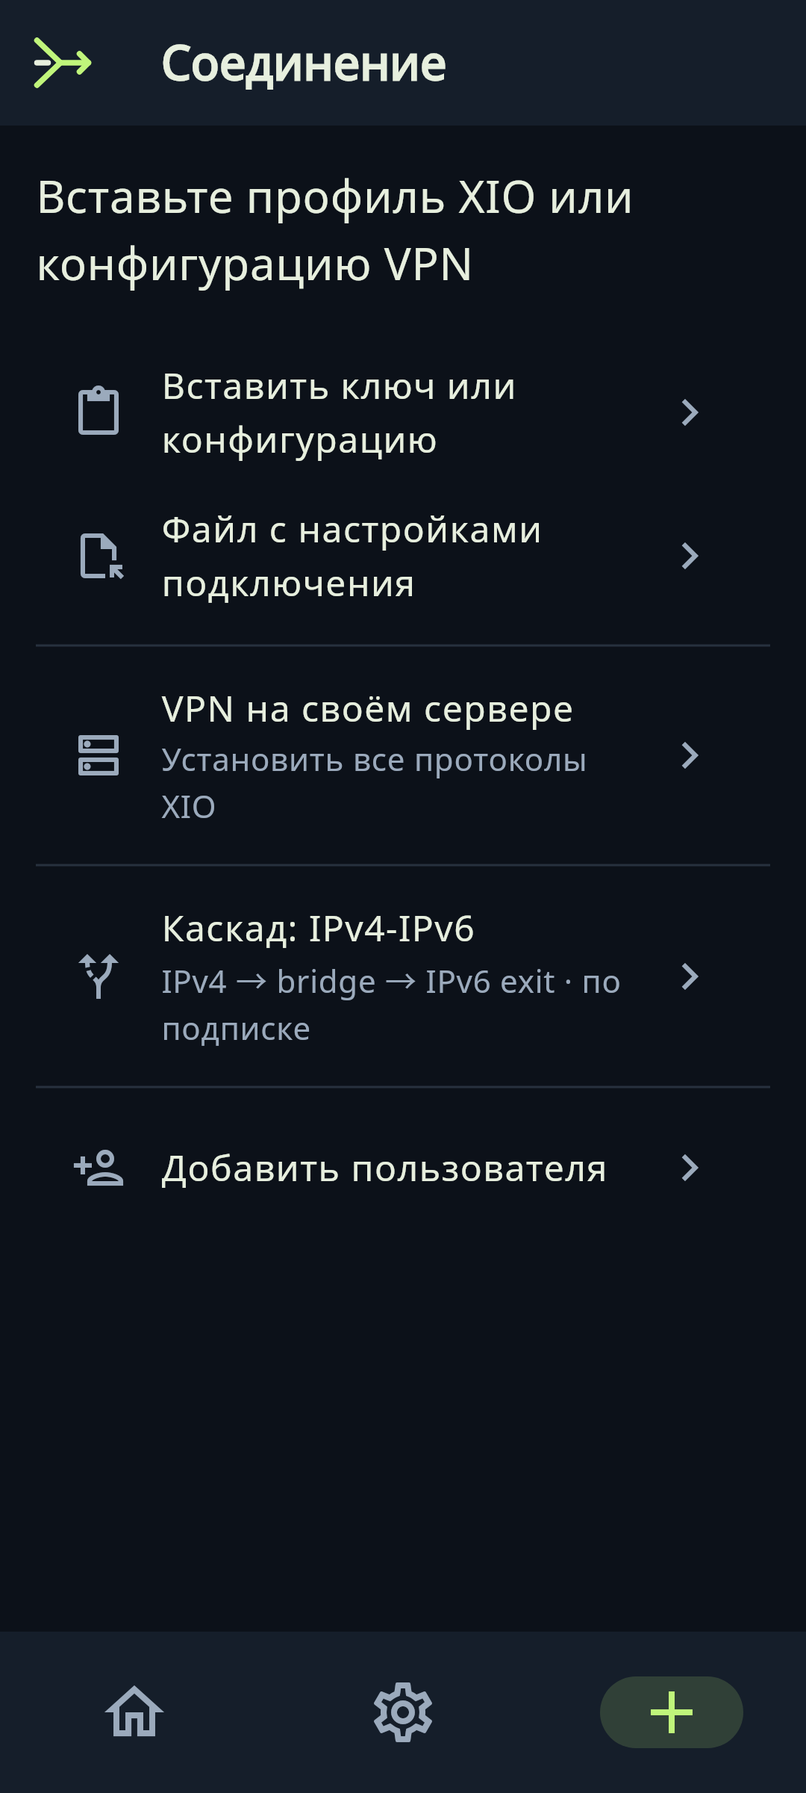
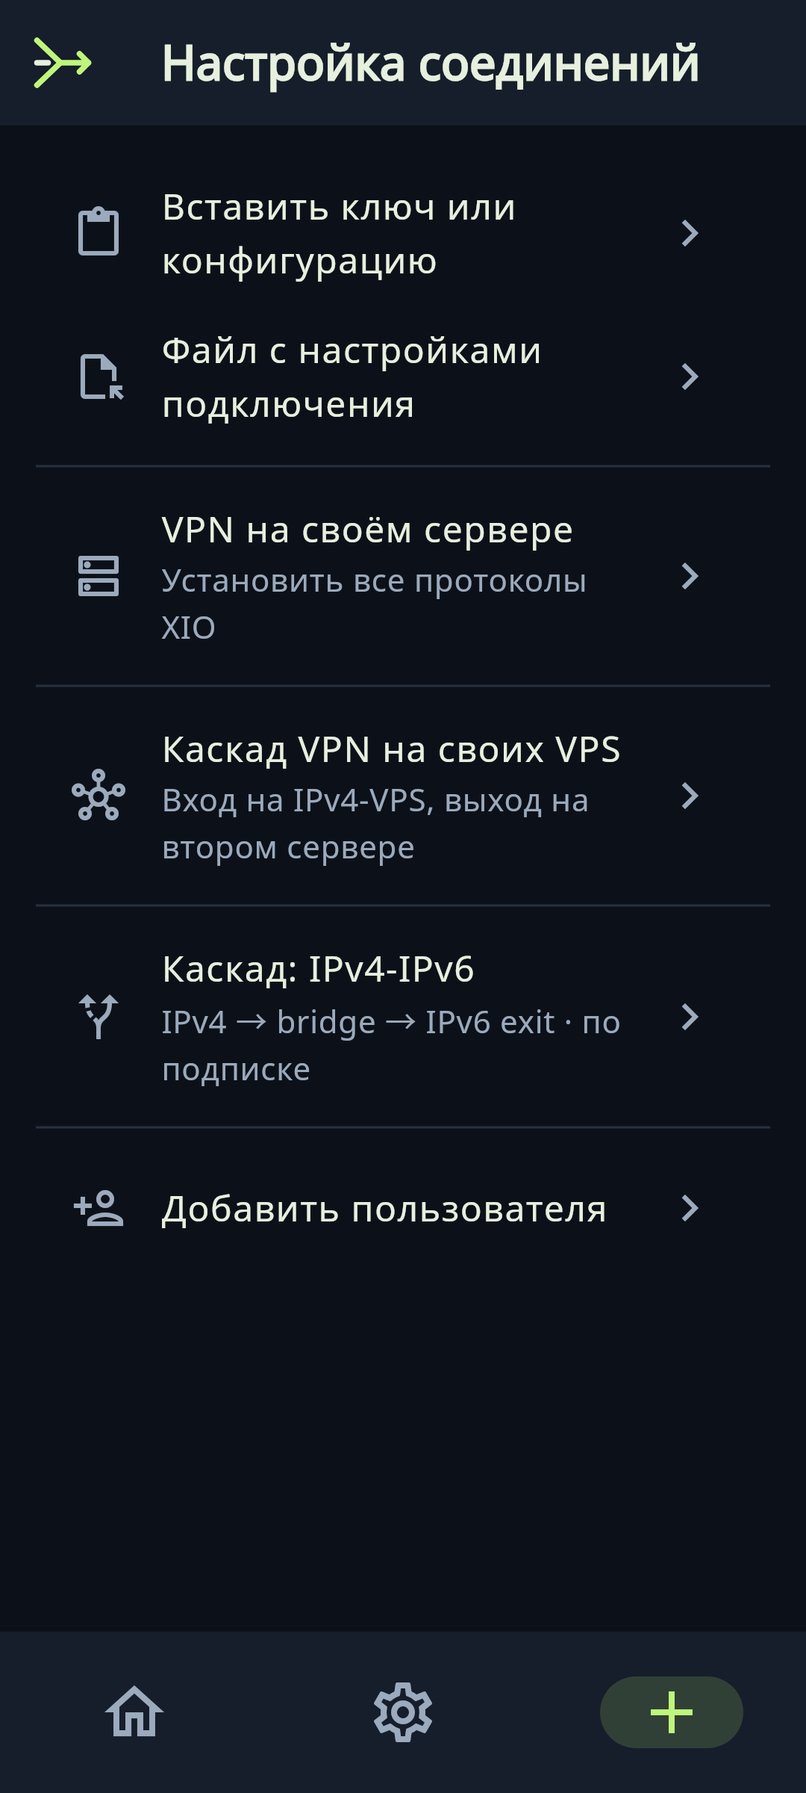
docs(0.24.2): update от 05.11 — кадр «Маршрутизация», обновлённые экраны, тесты 315
Кадры: routing-domains.png (новый, режимы IP/сайтов и поле доменов), обновлены connection-tab.png (вкладка «Настройка соединений» без подзаголовка, пункт «Каскад VPN на своих VPS») и settings.png (плитка без подзаголовка, MTProto с адресом). README/README.ru: новый кадр «Маршрутизация». Release notes: блок «Обновление от 05.11» (RU+EN), числа тестов 315/10/0.

diff --git a/app/test/screenshots/capture_screens_test.dart b/app/test/screenshots/capture_screens_test.dart
@@ -33,6 +33,7 @@ import 'package:xio/cascade_ui.dart';
 import 'package:xio/core.dart';
 import 'package:xio/l10n.dart';
 import 'package:xio/mtproto_ui.dart';
+import 'package:xio/split_routing.dart';
 import 'package:xio/workspace_ui.dart';
 
 import '../support/screenshots.dart';
@@ -522,6 +523,56 @@ void main() {
     expect(tester.takeException(), isNull);
 
     await _shoot(tester, key, 'settings-dns.png', pixelRatio: _phoneDpr);
+  });
+
+  testWidgets('split routing: IP/site modes and the domains field', (
+    tester,
+  ) async {
+    // Tall frame: the whole form (mode picker, IP list and the site list) has
+    // to fit into one frame, otherwise the frame would only prove the top of
+    // the screen. 360 × 1180 logical at DPR 3.
+    tester.view.physicalSize = const Size(1080, 3540);
+    tester.view.devicePixelRatio = _phoneDpr;
+    tester.platformDispatcher.platformBrightnessTestValue = Brightness.dark;
+    addTearDown(tester.view.resetPhysicalSize);
+    addTearDown(tester.view.resetDevicePixelRatio);
+    addTearDown(tester.platformDispatcher.clearPlatformBrightnessTestValue);
+    addTearDown(
+      () => TestDefaultBinaryMessengerBinding.instance.defaultBinaryMessenger
+          .setMockMethodCallHandler(native, null),
+    );
+
+    // The rules normally come from Android; the frame documents the widget, so
+    // the channel answers with a saved "IP/sites through the VPN" policy.
+    TestDefaultBinaryMessengerBinding.instance.defaultBinaryMessenger
+        .setMockMethodCallHandler(native, (call) async {
+          switch (call.method) {
+            case 'routingGet':
+              return {
+                'mode': 'ipInclude',
+                'packages': <String>[],
+                'networks': <String>['203.0.113.5', '192.168.0.0/16'],
+                'domains': <String>['youtube.com', '*.example.com'],
+              };
+            case 'routingApps':
+              return <dynamic>[];
+          }
+          return null;
+        });
+
+    final key = GlobalKey();
+    await tester.pumpWidget(
+      RepaintBoundary(key: key, child: _page(const SplitRoutingPage())),
+    );
+    await tester.pumpAndSettle();
+
+    expect(find.text('Маршрутизация'), findsOneWidget);
+    expect(find.text('Только выбранные IP/сайты через VPN'), findsOneWidget);
+    expect(find.byKey(const ValueKey('routing-domains')), findsOneWidget);
+    expect(find.text('Сохранить правила').hitTestable(), findsOneWidget);
+    expect(tester.takeException(), isNull);
+
+    await _shoot(tester, key, 'routing-domains.png', pixelRatio: _phoneDpr);
   });
 
   testWidgets('mtproto proxy: instruction, saved link and status', (

diff --git a/docs/screenshots/README.md b/docs/screenshots/README.md
@@ -2,7 +2,7 @@
 
 [Главная](../../README.ru.md) · [Возможности](../features.ru.md) · [Схемы](../landing/architecture.mmd) · [Home (EN)](../../README.md)
 
-Десять кадров Android-интерфейса уже сняты и лежат рядом с этим файлом — их рисует сам
+Одиннадцать кадров Android-интерфейса уже сняты и лежат рядом с этим файлом — их рисует сам
 Flutter в widget-тесте (раздел 1). Остальные кадры (Windows, Ubuntu, телефон, веб-панель,
 терминал) ещё нужно снять: для них ниже точные инструкции и таблица статусов, а не выдумка.
 
@@ -16,22 +16,23 @@ Flutter в widget-тесте (раздел 1). Остальные кадры (Wi
 
 ## 1. Снятые кадры (golden-рендер, PNG)
 
-Все десять кадров получены `flutter test` на Debian 13, `Flutter 3.47.7`, тема тёмная, язык
+Все одиннадцать кадров получены `flutter test` на Debian 13, `Flutter 3.47.7`, тема тёмная, язык
 `ru`. Кадр рисует Flutter, а не система, поэтому `FLAG_SECURE` ему не мешает. Файлы —
 настоящие PNG, не SVG и не макеты.
 
 | Файл | Что на нём | Размер | Как воспроизвести |
 |---|---|---|---|
 | `main-idle.png` | Главная: «Отключено», круглая кнопка «Подключиться», выбранный сервер «🇷🇺 Основной сервер», «Автоматически · Xray / REALITY», счётчики 0 B | 1080×2400 | тест `main screen: idle, server chosen` |
-| `connection-tab.png` | Вкладка «Соединение»: «Вставить ключ или конфигурацию», «Файл с настройками подключения», «VPN на своём сервере», «Каскад: два сервера» (`IPv4 → bridge → IPv6 exit · по подписке`), «Добавить пользователя» | 1080×2400 | тест `connection tab: key, own server, cascade, user` |
+| `connection-tab.png` | Вкладка «Настройка соединений» (без подзаголовка): «Вставить ключ или конфигурацию», «Файл с настройками подключения», «VPN на своём сервере», «Каскад VPN на своих VPS» (`Вход на IPv4-VPS, выход на втором сервере`), «Каскад: IPv4-IPv6» (`IPv4 → bridge → IPv6 exit · по подписке`), «Добавить пользователя» | 1080×2400 | тест `connection tab: key, own server, cascade, user` |
 | `cascade-configured.png` | Экран «Каскад» с настроенными адресами: Устройство → Bridge `81.177.142.37` → Exit `2a0c:b641:1a0:800::2a2`, «Готов к подключению», «Отклик —», «Выходной IPv6 —», кнопка «Проверить каскад», плашка подписки «XIO Cascade» | 1080×2400 | тест `cascade screen: configured bridge and IPv6 exit` |
 | `cascade-health.png` | Тот же экран после «Проверить каскад», когда проверка вернула `ok`: зелёные линии и станции, «Защищённый туннель только IPv6 · проверено», «Отклик 214 мс», «Выходной IPv6 2a0c:b641:1a0:800::2a2», «Обновлено 23:40:00» | 1080×2400 | тест `cascade health: result of «Проверить каскад»` |
 | `cascade-servers-dialog.png` | Диалог «Серверы каскада»: два поля (Bridge IPv4/домен, Exit только IPv6) с заполненными адресами и готовая команда установки `--role bridge --exit-host 2a0c:b641:1a0:800::2a2` | 1080×2400 | тест `cascade servers dialog: two fields and the install command` |
-| `settings.png` | Настройки: Серверы, Соединение, Приложение, Пользователи, Поддержать XIO, О XIO | 824×1830 (412×915 @2×) | тест `settings: list, then the application/locale screen` |
+| `settings.png` | Настройки: Серверы, «Настройка соединений» (без подзаголовка), «Telegram-прокси (MTProto)» с адресом `proxy.xio.fr:443`, Приложение, Пользователи, Поддержать XIO, О XIO | 824×1830 (412×915 @2×) | тест `settings: list, then the application/locale screen` |
 | `settings-locales.png` | «Приложение» целиком: язык «Русский · ru», «Проверить обновления», три переключателя, «Оформление» | 824×1830 (412×915 @2×) | тот же тест, второй кадр |
 | `settings-dns.png` | «DNS-резолвер»: пояснение, четыре готовых набора (AdGuard DNS (IPv6), Quad9, Cloudflare, Google Public DNS) с отмеченным Cloudflare, пункт «Свои» и кнопка «Сохранить» | 1080×2400 | тест `dns resolver: presets, the saved pair and the custom fields` |
 | `settings-mtproto.png` | «Telegram-прокси (MTProto)»: четыре шага включения прокси в Telegram, поле «Ссылка прокси» с `tg://proxy?…`, подпись «Сервер: proxy.xio.fr:443», кнопки «Сохранить / Скопировать / Открыть в Telegram / Вставить / Очистить» и строка «Прокси настроен» | 1080×2400 | тест `mtproto proxy: instruction, saved link and status` |
 | `settings-behaviour.png` | Три переключателя экрана «Приложение»: «Автозапуск при загрузке устройства», «Автоподключение после запуска» (вкл.), «Разрешить скриншоты» (вкл.) с подписями-пояснениями | 1080×2400 | тест `application settings: autostart, auto-connect, screenshots` |
+| `routing-domains.png` | «Маршрутизация»: режим «Только выбранные IP/сайты через VPN», список IP `203.0.113.5` и `192.168.0.0/16`, подпись про DNS, поле «Домены и сайты» с `youtube.com` и `*.example.com`, кнопка «Сохранить правила» | 1080×3540 (360×1180 @3×) | тест `split routing: IP/site modes and the domains field` |
 
 Команда прогона (из каталога `app/`):
 
@@ -53,6 +54,9 @@ XIO_CAPTURE_IMAGES=1 flutter test test/screenshots
 
 - размер задаёт тест: телефон — `tester.view.physicalSize = 1080×2400`, `devicePixelRatio = 3`
   (логический 360×800), кадр `settings*.png` — 412×915 логических при `pixelRatio = 2×`;
+- `routing-domains.png` снят высоким кадром (360×1180 логических, 1080×3540 px): форма
+  маршрутизации длиннее экрана телефона, и в обычный кадр попал бы только её верх — без поля
+  доменов, ради которого кадр и снят. На телефоне форма прокручивается, содержимое то же;
 - плашка подписки на `cascade-configured.png` — состояние «подписка активна»
   (`CascadeSubscription(entitled: true, planLabel: 'XIO Cascade')`). Сама подписка пока
   заглушка: `CascadeFeatureGate.enabled == false`, поэтому кнопка «Активировать» в кадре
@@ -349,7 +353,7 @@ sudo ./install-webui.sh 0.0.0.0:10443        # скрипт печатает URL
 | Пункт | Закрывает кадр | Чем отличается от съёмки на телефоне |
 |---|---|---|
 | A1 (главная, «Отключено») | `main-idle.png` | нет системной строки состояния, тёмная тема принудительная |
-| A2 (вкладка «Соединение») | `connection-tab.png` | то же |
+| A2 (вкладка «Настройка соединений») | `connection-tab.png` | то же |
 | A3 (экран «Каскад», настроенные адреса) | `cascade-configured.png` | подписка показана активной (заглушка `enabled == false`) |
 | A4 (экран «Каскад» после проверки) | `cascade-health.png` | probe подставлен тестом: кадр показывает состояние экрана после `ok`, а не живой SSH-ответ сервера |
 | A5 (форма установки) | `cascade-servers-dialog.png` | это диалог адресов, а не галочка «Включить каскад» |
@@ -357,6 +361,7 @@ sudo ./install-webui.sh 0.0.0.0:10443        # скрипт печатает URL
 | A7 (Соединение → «DNS-резолвер») | `settings-dns.png` | выбор набора без системной строки состояния |
 | A7 (Настройки → «Telegram-прокси (MTProto)») | `settings-mtproto.png` | экран настроек без системной строки состояния |
 | A7 (Приложение → автозапуск/автоподключение/скриншоты) | `settings-behaviour.png` | на Linux-хосте «Автозапуск» неактивен и с не-андроидной подписью |
+| A7 («Настройка соединений» → «Маршрутизация») | `routing-domains.png` | высокий кадр 360×1180: форма показана целиком, на телефоне она прокручивается |
 
 ---
 
@@ -368,7 +373,7 @@ sudo ./install-webui.sh 0.0.0.0:10443        # скрипт печатает URL
 | Файл | Что на нём |
 |---|---|
 | `docs/screenshots/main-idle.png` | Android Full, главная: «Отключено», выбор сервера (golden) |
-| `docs/screenshots/connection-tab.png` | Android Full, вкладка «Соединение» (golden) |
+| `docs/screenshots/connection-tab.png` | Android Full, вкладка «Настройка соединений» с пунктами «Каскад VPN на своих VPS» и «Каскад: IPv4-IPv6» (golden) |
 | `docs/screenshots/cascade-configured.png` | Android Full, «Каскад» с настроенными адресами (golden) |
 | `docs/screenshots/cascade-health.png` | Android Full, «Каскад» после успешной «Проверить каскад» (golden) |
 | `docs/screenshots/cascade-servers-dialog.png` | Диалог «Серверы каскада» и команда установки (golden) |
@@ -376,6 +381,7 @@ sudo ./install-webui.sh 0.0.0.0:10443        # скрипт печатает URL
 | `docs/screenshots/settings-dns.png` | Android Full, «DNS-резолвер»: наборы и «Свои» (golden) |
 | `docs/screenshots/settings-mtproto.png` | Android Full, «Telegram-прокси (MTProto)» с сохранённой ссылкой (golden) |
 | `docs/screenshots/settings-behaviour.png` | Android Full, три переключателя «Приложения» (golden) |
+| `docs/screenshots/routing-domains.png` | Android Full, «Маршрутизация»: режимы IP/сайтов и поле доменов (golden) |
 | `docs/images/2026-10-26-full-home.png` | Full XIO, главная |
 | `docs/images/2026-10-26-full-settings.png` | Full XIO, настройки |
 | `docs/images/2026-10-26-win-windows-home.png` | XIO Client для Windows |

diff --git a/README.ru.md b/README.ru.md
@@ -566,13 +566,17 @@ entitlements NetworkExtension. См. [сборка из исходников](do
 (`app/test/screenshots/capture_screens_test.dart`, команда в
 [docs/screenshots/README.md](docs/screenshots/README.md)):
 
-| Главная, «Отключено» | Вкладка «Соединение» |
+| Главная, «Отключено» | Вкладка «Настройка соединений» |
 |---|---|
-| ![Главная: отключено, выбран сервер](docs/screenshots/main-idle.png) | ![Соединение: ключ, свой сервер, каскад, пользователь](docs/screenshots/connection-tab.png) |
+| ![Главная: отключено, выбран сервер](docs/screenshots/main-idle.png) | ![Настройка соединений: ключ, свой сервер, «Каскад VPN на своих VPS», пользователь](docs/screenshots/connection-tab.png) |
 
 | «DNS-резолвер»: наборы и свои адреса | «Telegram-прокси (MTProto)»: шаги и сохранённая ссылка |
 |---|---|
 | ![DNS-резолвер: AdGuard, Quad9, Cloudflare, Google Public DNS и пункт «Свои»](docs/screenshots/settings-dns.png) | ![Telegram-прокси (MTProto): инструкция, ссылка tg://proxy и статус «Прокси настроен»](docs/screenshots/settings-mtproto.png) |
+
+| «Маршрутизация»: режимы IP/сайтов и поле доменов |
+|---|
+| <img src="docs/screenshots/routing-domains.png" width="260" alt="Маршрутизация: режим «Только выбранные IP/сайты через VPN», список IP 203.0.113.5 и 192.168.0.0/16, поле «Домены и сайты» с youtube.com и *.example.com"> |
 
 Экраны Android остаются чёрными на системном скриншоте: приложение ставит `FLAG_SECURE`. Это
 защита, а не ошибка — Android-кадры в документации получены из widget-тестов Flutter. Список

diff --git a/README.md b/README.md
@@ -559,13 +559,17 @@ Fresh Android frames produced by the golden render
 (`app/test/screenshots/capture_screens_test.dart`, command in
 [docs/screenshots/README.md](docs/screenshots/README.md)):
 
-| Home, disconnected | Connection tab |
+| Home, disconnected | "Connection settings" tab |
 |---|---|
-| ![Home: disconnected, server chosen](docs/screenshots/main-idle.png) | ![Connection: key, own server, cascade, user](docs/screenshots/connection-tab.png) |
+| ![Home: disconnected, server chosen](docs/screenshots/main-idle.png) | ![Connection settings: key, own server, "Cascade VPN on your own VPS", users](docs/screenshots/connection-tab.png) |
 
 | "DNS resolver": presets and custom addresses | "Telegram proxy (MTProto)": steps and the saved link |
 |---|---|
 | ![DNS resolver: AdGuard, Quad9, Cloudflare, Google Public DNS and "Custom"](docs/screenshots/settings-dns.png) | ![MTProto proxy: instruction, tg://proxy link and the "Proxy configured" status](docs/screenshots/settings-mtproto.png) |
+
+| "Routing": IP/site modes and the domains field |
+|---|
+| <img src="docs/screenshots/routing-domains.png" width="260" alt="Routing: mode «Only the selected IPs/sites through the VPN», the IP list 203.0.113.5 and 192.168.0.0/16, and the «Domains and sites» field with youtube.com and *.example.com"> |
 
 Android screens on the phone stay black in a system screenshot: the app sets `FLAG_SECURE`. That is
 protection, not a bug — the Android images in the docs come from Flutter widget tests. The list of
